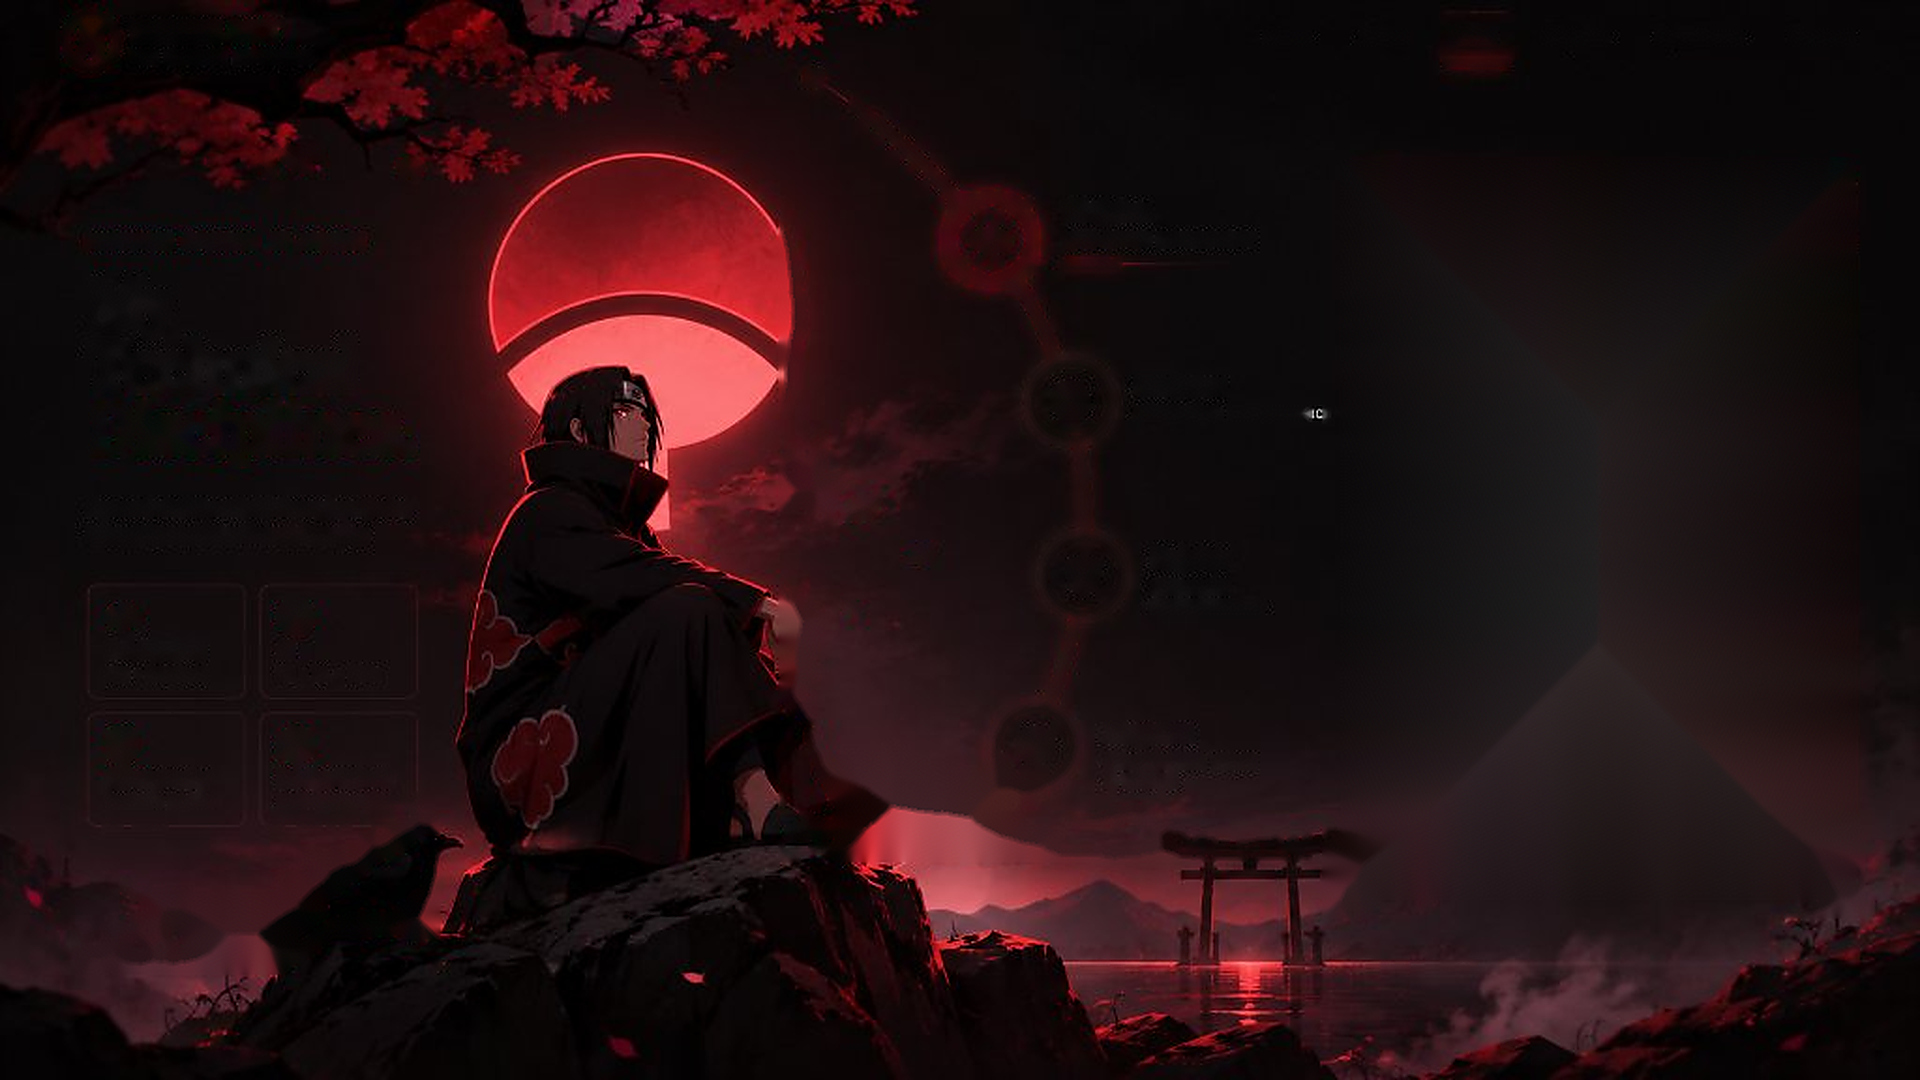
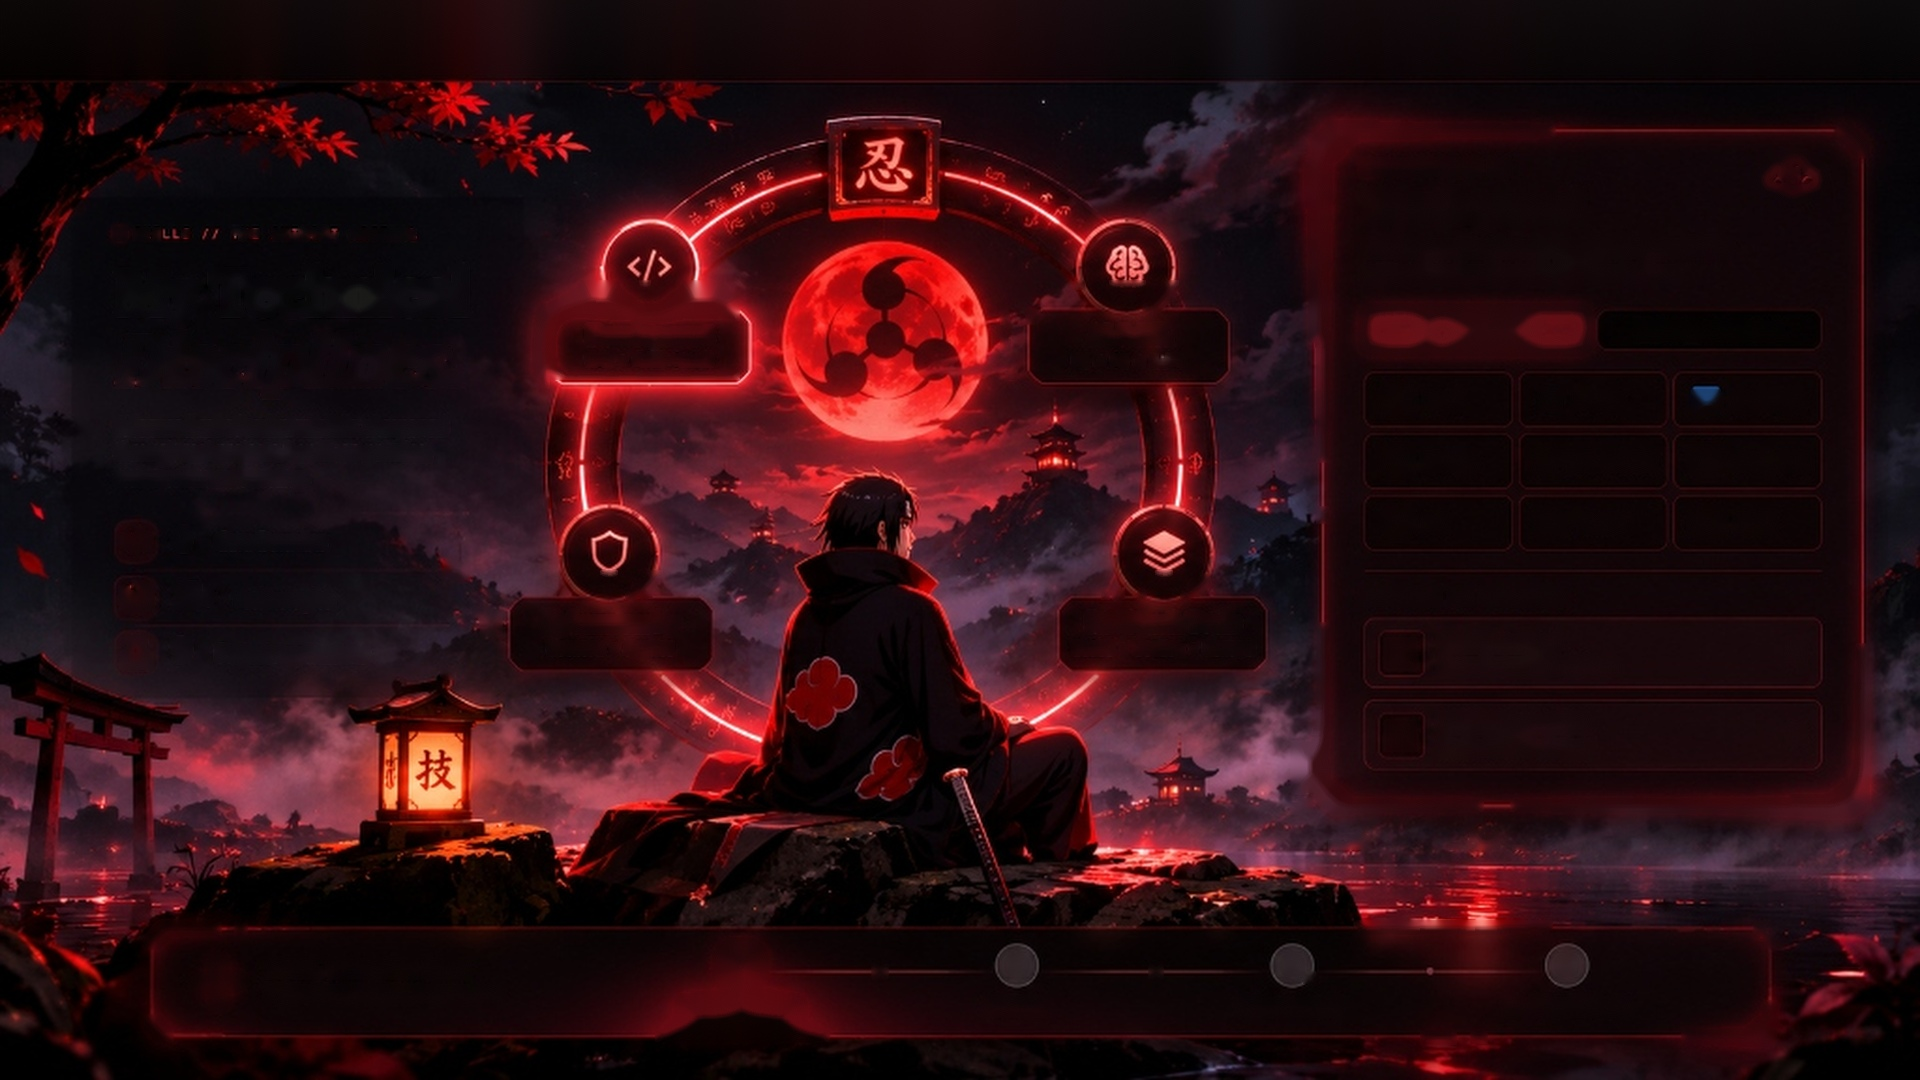
feat: update clean backdrop and skills data for technical arsenal

diff --git a/components/skills/skillsData.ts b/components/skills/skillsData.ts
@@ -1,7 +1,40 @@
+export type DisciplineId = "development" | "ai-ml" | "cybersecurity" | "devops-tools";
+
 export interface TechnologyItem {
   name: string;
-  category?: string;
-  iconType?: "react" | "next" | "ts" | "node" | "spring" | "postgres" | "python" | "fastapi" | "docker" | "git" | "wireshark" | "linux" | "redis" | "code";
+  iconType:
+    | "react"
+    | "next"
+    | "ts"
+    | "node"
+    | "tailwind"
+    | "postgres"
+    | "git"
+    | "docker"
+    | "redis"
+    | "python"
+    | "tensorflow"
+    | "opencv"
+    | "fastapi"
+    | "pytorch"
+    | "scikit"
+    | "ollama"
+    | "pandas"
+    | "flask"
+    | "wireshark"
+    | "terminal"
+    | "network"
+    | "dns"
+    | "soc"
+    | "lock"
+    | "linux"
+    | "nmap"
+    | "burp"
+    | "github"
+    | "vscode"
+    | "postman"
+    | "vercel"
+    | "code";
 }
 
 export interface AppliedProject {
@@ -11,165 +44,245 @@ export interface AppliedProject {
   isExternal?: boolean;
 }
 
+export interface ProjectEvidenceItem {
+  title: string;
+  role: string;
+  summary: string;
+  technologies: string[];
+  link: string;
+  isExternal?: boolean;
+}
+
 export interface SkillDiscipline {
-  id: "ninjutsu" | "genjutsu" | "dojutsu" | "kugutsu";
+  id: DisciplineId;
   number: string;
-  japaneseTitle: string;
-  englishCategory: string;
-  shortTitle: string;
-  shortSubtitle: string;
-  panelTitle: string;
+  title: string;
+  subtitle: string;
   description: string;
   iconType: "code" | "brain" | "shield" | "layers";
   technologies: TechnologyItem[];
   appliedIn: AppliedProject[];
+  evidence: ProjectEvidenceItem[];
 }
 
 export const SKILL_DISCIPLINES: SkillDiscipline[] = [
   {
-    id: "ninjutsu",
+    id: "development",
     number: "01",
-    japaneseTitle: "Ninjutsu",
-    englishCategory: "FULL-STACK DEVELOPMENT",
-    shortTitle: "Development",
-    shortSubtitle: "Web · Full-Stack",
-    panelTitle: "Ninjutsu: Full-Stack Development",
+    title: "Development",
+    subtitle: "Web · Full-Stack",
     description:
-      "Building responsive web applications, scalable systems and practical digital solutions.",
+      "Building responsive web applications, scalable systems and real-world digital solutions.",
     iconType: "code",
     technologies: [
       { name: "React", iconType: "react" },
       { name: "Next.js", iconType: "next" },
       { name: "TypeScript", iconType: "ts" },
       { name: "Node.js", iconType: "node" },
-      { name: "Spring Boot", iconType: "spring" },
+      { name: "Tailwind CSS", iconType: "tailwind" },
       { name: "PostgreSQL", iconType: "postgres" },
+      { name: "Git", iconType: "git" },
+      { name: "Docker", iconType: "docker" },
+      { name: "Redis", iconType: "redis" },
     ],
     appliedIn: [
       {
-        title: "GMU Connect 2.0",
-        subtitle: "Student ERP web application",
-        link: "/projects",
+        title: "MGS Jewellery",
+        subtitle: "E-commerce Web Platform",
+        link: "/projects/jewellery-website",
       },
       {
-        title: "MGS Jewellery",
-        subtitle: "E-commerce platform",
-        link: "/projects",
+        title: "GMU Connect 2.0",
+        subtitle: "Student ERP Prototype",
+        link: "/projects/gmu-crm",
       },
       {
         title: "Doctor Portfolio",
-        subtitle: "Personal portfolio web app",
-        link: "/projects",
+        subtitle: "Personal Web Application",
+        link: "/projects/doctor-portfolio",
+      },
+    ],
+    evidence: [
+      {
+        title: "MGS Jewellery Platform",
+        role: "Frontend Engineer & UI Lead",
+        summary:
+          "Engineered a high-performance luxury e-commerce catalog, dynamic cart management, and fluid responsive checkout interface with Next.js and Tailwind.",
+        technologies: ["Next.js", "React", "TypeScript", "Tailwind CSS"],
+        link: "/projects/jewellery-website",
+      },
+      {
+        title: "GMU Connect Student ERP",
+        role: "Full-Stack Developer",
+        summary:
+          "Developed student profile management, course navigation, and responsive administration portals with Node.js and PostgreSQL backend services.",
+        technologies: ["React", "Node.js", "PostgreSQL", "Tailwind CSS"],
+        link: "/projects/gmu-crm",
       },
     ],
   },
   {
-    id: "genjutsu",
+    id: "ai-ml",
     number: "02",
-    japaneseTitle: "Genjutsu",
-    englishCategory: "ARTIFICIAL INTELLIGENCE",
-    shortTitle: "AI",
-    shortSubtitle: "ML · DL · LLMs",
-    panelTitle: "Genjutsu: Artificial Intelligence",
+    title: "AI & ML",
+    subtitle: "ML · DL · LLMs",
     description:
       "Exploring applied machine learning, computer vision for medical diagnostics and intelligent application integration.",
     iconType: "brain",
     technologies: [
       { name: "Python", iconType: "python" },
-      { name: "Applied ML", iconType: "code" },
-      { name: "Computer Vision", iconType: "code" },
+      { name: "TensorFlow", iconType: "tensorflow" },
+      { name: "OpenCV", iconType: "opencv" },
       { name: "FastAPI", iconType: "fastapi" },
-      { name: "LLM Integration", iconType: "code" },
-      { name: "Ollama", iconType: "code" },
+      { name: "PyTorch", iconType: "pytorch" },
+      { name: "Scikit-Learn", iconType: "scikit" },
+      { name: "Ollama / LLMs", iconType: "ollama" },
+      { name: "Pandas", iconType: "pandas" },
+      { name: "Flask", iconType: "flask" },
     ],
     appliedIn: [
       {
         title: "Diabetic Retinopathy Detection",
-        subtitle: "Deep learning medical imaging prototype",
-        link: "/projects",
+        subtitle: "AI · Deep Learning · Medical",
+        link: "/projects/diabetic-retinopathy",
       },
       {
         title: "Resume Gap AI",
-        subtitle: "Skill analysis & resume optimization",
-        link: "/projects",
+        subtitle: "AI · Productivity Analysis",
+        link: "/projects/resume-gap-ai",
       },
       {
         title: "Bayora Sec",
-        subtitle: "Adversarial AI evaluation environment",
-        link: "/projects",
+        subtitle: "AI Security & Adversarial Safety",
+        link: "/projects/bayora-sec",
+      },
+    ],
+    evidence: [
+      {
+        title: "Diabetic Retinopathy Detection",
+        role: "Deep Learning Researcher",
+        summary:
+          "Built a CNN deep learning classifier to diagnose retinopathy severity stages from retinal photography with OpenCV image preprocessing and TensorFlow pipelines.",
+        technologies: ["Python", "TensorFlow", "OpenCV", "Flask"],
+        link: "/projects/diabetic-retinopathy",
+      },
+      {
+        title: "Resume Gap AI Analysis System",
+        role: "Full-Stack AI Developer",
+        summary:
+          "Integrated LLM semantic parsing and career gap identification to automatically recommend targeted upskilling roadmaps for candidates.",
+        technologies: ["Python", "FastAPI", "React", "Ollama"],
+        link: "/projects/resume-gap-ai",
       },
     ],
   },
   {
-    id: "dojutsu",
+    id: "cybersecurity",
     number: "03",
-    japaneseTitle: "Dojutsu",
-    englishCategory: "DEFENSIVE CYBERSECURITY",
-    shortTitle: "Cybersecurity",
-    shortSubtitle: "Network · AppSec",
-    panelTitle: "Dojutsu: Defensive Cybersecurity",
+    title: "Cybersecurity",
+    subtitle: "Network · AppSec",
     description:
-      "Investigating network protocols, packet inspection, incident triage and secure software defense.",
+      "Investigating network protocols, packet inspection, incident triage and secure software defense architectures.",
     iconType: "shield",
     technologies: [
       { name: "Wireshark", iconType: "wireshark" },
-      { name: "TShark", iconType: "code" },
-      { name: "TCP/IP Protocols", iconType: "code" },
-      { name: "DNS Forensics", iconType: "code" },
-      { name: "SOC Fundamentals", iconType: "code" },
-      { name: "SHA-256 Hashing", iconType: "code" },
+      { name: "TShark", iconType: "terminal" },
+      { name: "TCP/IP Protocols", iconType: "network" },
+      { name: "DNS Forensics", iconType: "dns" },
+      { name: "SOC Fundamentals", iconType: "soc" },
+      { name: "SHA-256 Hashing", iconType: "lock" },
+      { name: "Kali Linux", iconType: "linux" },
+      { name: "Nmap", iconType: "nmap" },
+      { name: "Burp Suite", iconType: "burp" },
     ],
     appliedIn: [
       {
         title: "Bayora Sec",
-        subtitle: "Zero-trust AI safety testing framework",
-        link: "/projects",
+        subtitle: "Zero-Trust AI Safety Framework",
+        link: "/projects/bayora-sec",
       },
       {
         title: "Packet Analysis Labs",
-        subtitle: "Hands-on Wireshark traffic inspection",
+        subtitle: "Hands-on Traffic Inspection",
         link: "/skills",
       },
       {
         title: "GMU Cybersecurity Studies",
-        subtitle: "Defensive systems & cryptography",
+        subtitle: "Defensive Systems & Cryptography",
+        link: "/experience",
+      },
+    ],
+    evidence: [
+      {
+        title: "Bayora Sec Zero-Trust Framework",
+        role: "Security Engineer",
+        summary:
+          "Constructed adversarial prompt-injection mitigation boundaries, input sanitation filters, and isolated container execution environments for AI tools.",
+        technologies: ["Docker", "Python", "Kali Linux", "AppSec"],
+        link: "/projects/bayora-sec",
+      },
+      {
+        title: "Network Traffic & Packet Forensics",
+        role: "Shinobi Analyst",
+        summary:
+          "Conducted deep packet inspection using Wireshark and TShark to detect anomalous DNS beaconing, malformed TCP packets, and unauthorized port scan attempts.",
+        technologies: ["Wireshark", "TShark", "TCP/IP", "Kali Linux"],
         link: "/experience",
       },
     ],
   },
   {
-    id: "kugutsu",
+    id: "devops-tools",
     number: "04",
-    japaneseTitle: "Kugutsu",
-    englishCategory: "ENGINEERING TOOLS & DEVOPS",
-    shortTitle: "DevOps & Tools",
-    shortSubtitle: "Build · Deploy · Manage",
-    panelTitle: "Kugutsu: Engineering Tools & DevOps",
+    title: "DevOps & Tools",
+    subtitle: "Build · Deploy · Manage",
     description:
-      "Essential developer tooling, containerization, reproducible environments and version control workflows.",
+      "Essential developer tooling, containerization, reproducible deployment environments and version control workflows.",
     iconType: "layers",
     technologies: [
-      { name: "Git & GitHub", iconType: "git" },
+      { name: "Git", iconType: "git" },
       { name: "Docker", iconType: "docker" },
       { name: "Linux / Kali", iconType: "linux" },
-      { name: "VS Code", iconType: "code" },
-      { name: "Postman", iconType: "code" },
+      { name: "GitHub Actions", iconType: "github" },
+      { name: "VS Code", iconType: "vscode" },
+      { name: "Postman", iconType: "postman" },
       { name: "Redis", iconType: "redis" },
+      { name: "Vercel", iconType: "vercel" },
+      { name: "Bash Scripting", iconType: "terminal" },
     ],
     appliedIn: [
       {
         title: "Bayora Sec Architecture",
-        subtitle: "Multi-container Docker orchestration",
-        link: "/projects",
+        subtitle: "Multi-Container Docker Deployment",
+        link: "/projects/bayora-sec",
       },
       {
         title: "GMU Connect Infrastructure",
-        subtitle: "PostgreSQL & Redis container deployment",
-        link: "/projects",
+        subtitle: "PostgreSQL & Redis Container Stack",
+        link: "/projects/gmu-crm",
       },
       {
         title: "GitHub Repositories",
-        subtitle: "Version control & collaborative branch hygiene",
+        subtitle: "Git Hygiene & Release Management",
+        link: "https://github.com/Karunpoojari7",
+        isExternal: true,
+      },
+    ],
+    evidence: [
+      {
+        title: "Containerized Microservices Setup",
+        role: "DevOps Engineer",
+        summary:
+          "Constructed isolated multi-container Docker environments orchestrating FastAPI endpoints, Redis cache queues, and PostgreSQL databases.",
+        technologies: ["Docker", "PostgreSQL", "Redis", "Linux"],
+        link: "/projects/bayora-sec",
+      },
+      {
+        title: "Continuous Delivery & Git Hygiene",
+        role: "Maintainer",
+        summary:
+          "Maintained strict version control practices, automated deployment pipelines with Vercel, and repeatable cross-platform configuration scripts.",
+        technologies: ["Git", "GitHub Actions", "Vercel", "Bash"],
         link: "https://github.com/Karunpoojari7",
         isExternal: true,
       },
